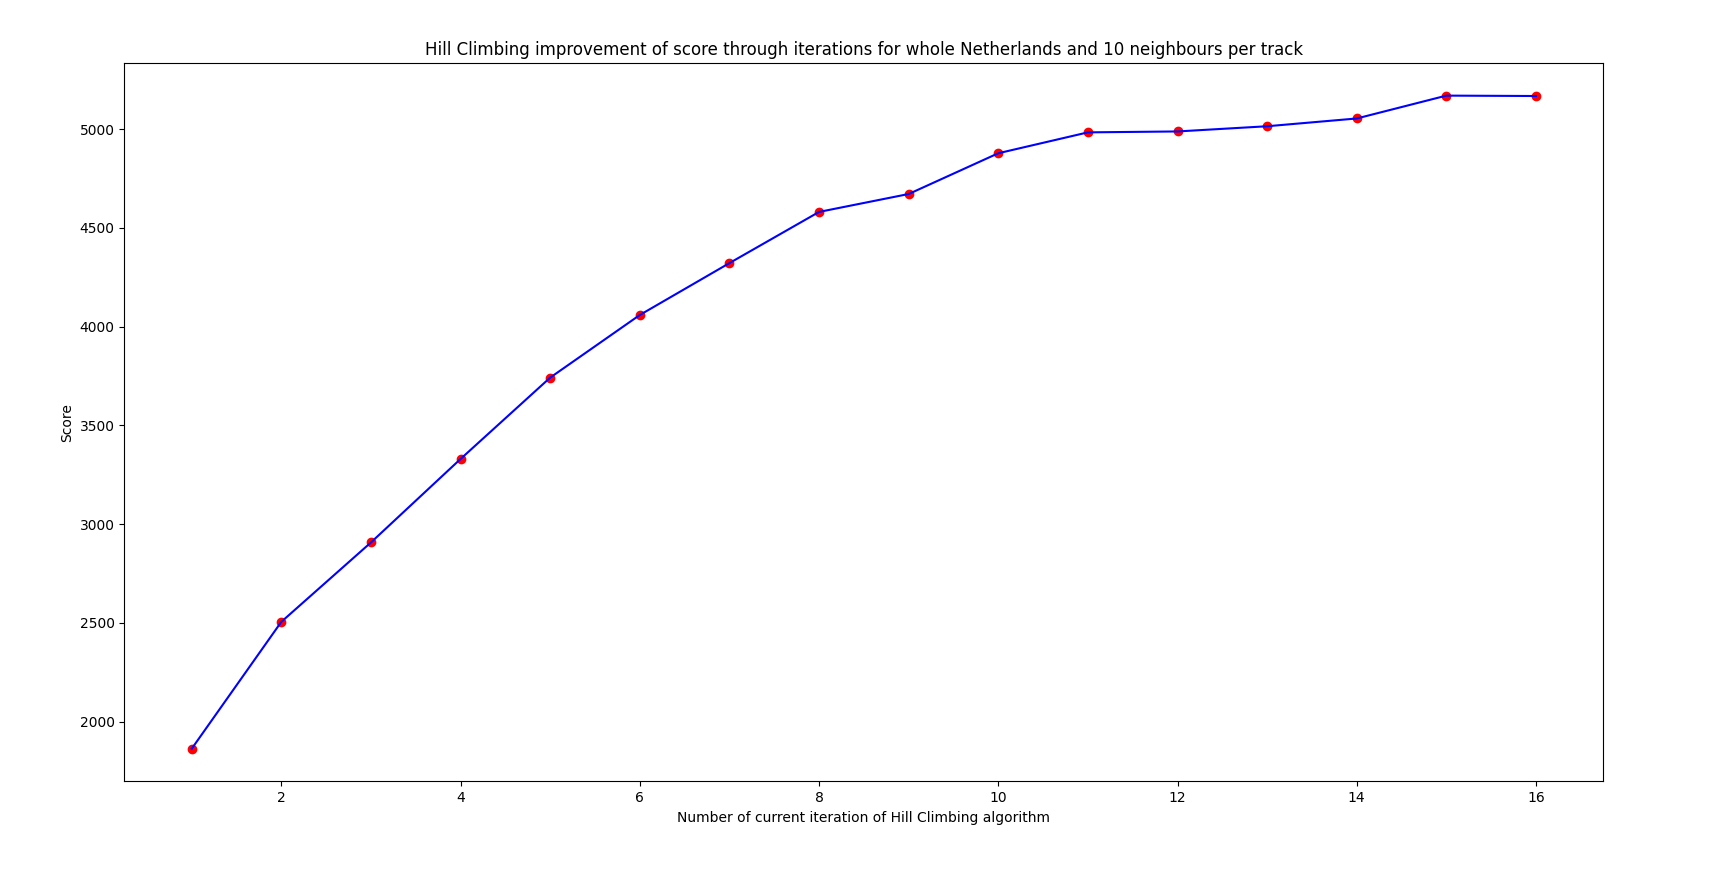
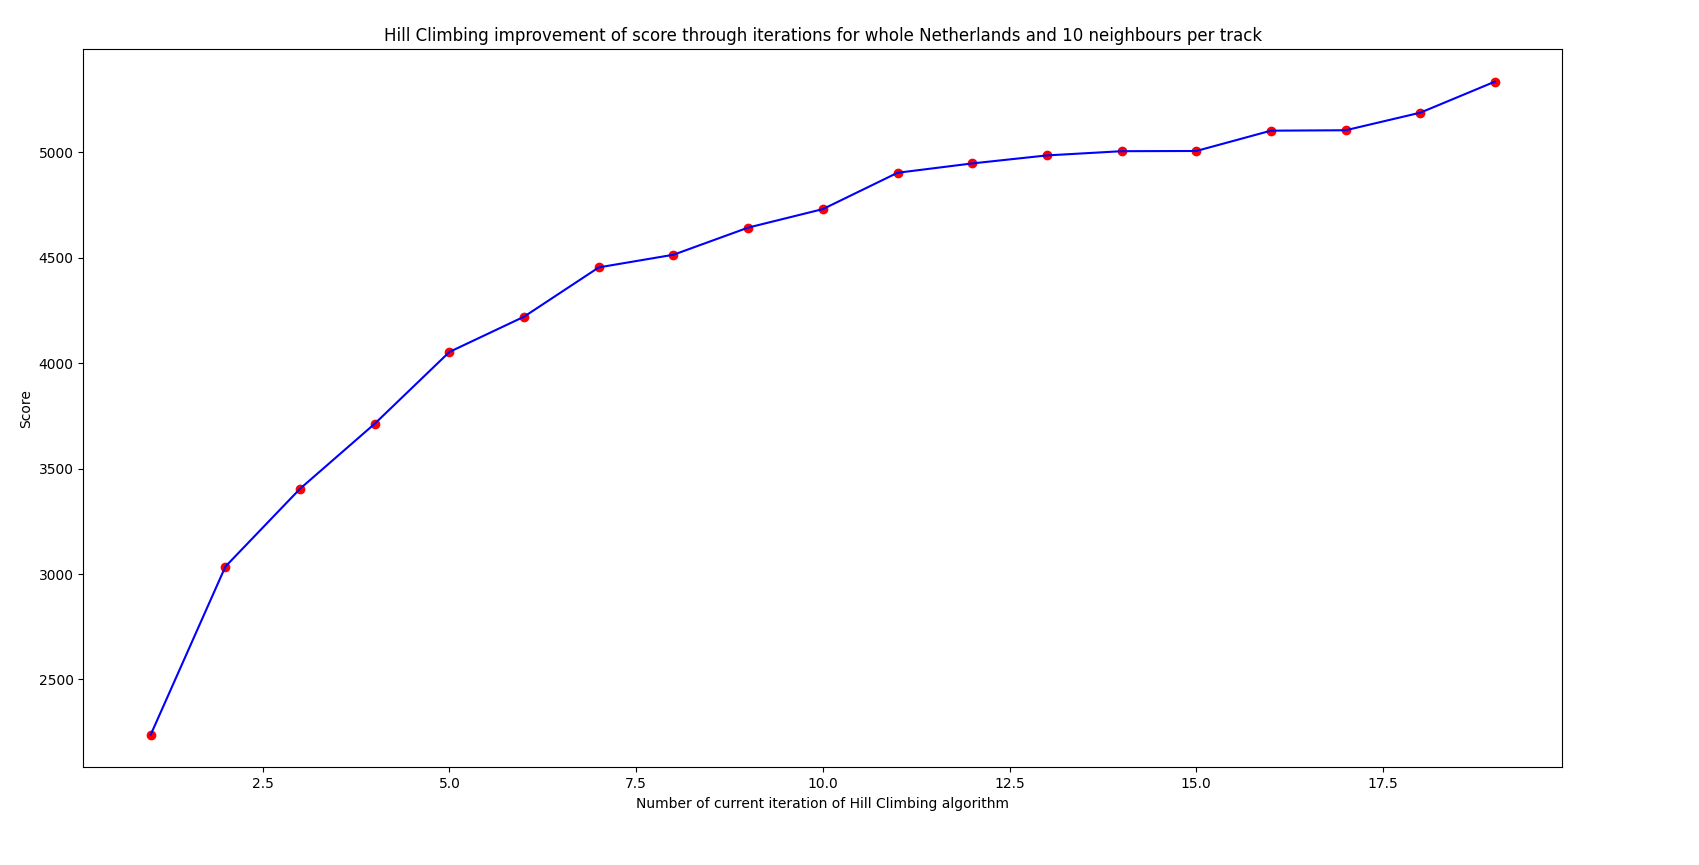
changed some small thing about graph

diff --git a/code/algorithms/hill_climbing/hill_climbing_alg.py b/code/algorithms/hill_climbing/hill_climbing_alg.py
@@ -27,6 +27,8 @@ from code.algorithms.random.random_alg_opt import run_random_traject_opt
 from code.other.remove_unnecessary import removing_lines
 from code.other.run import run_trajects
 
+import random
+
 
 def hill_climbing(area: Rail_NL, amount_trajects: int, amount_stations: int, max_time: int, amount_neighbors: int = 1,
                   greedy: bool = False, random_optim: bool = False,
@@ -73,14 +75,13 @@ def hill_climbing(area: Rail_NL, amount_trajects: int, amount_stations: int, max
 
         eval_sol = evaluate_solution(best_neighbor, area, amount_stations, max_time)
 
-        if plot:
-            score_list.append(eval_sol)
-
         # if best neighbor is better than current solution, replace current_solution
         # by best neighbor and start again
         if eval_sol > current_score:
             current_solution = best_neighbor
             current_score = eval_sol
+            if plot:
+                score_list.append(eval_sol)
             area.reset()
 
         # if not, stop algorithm
